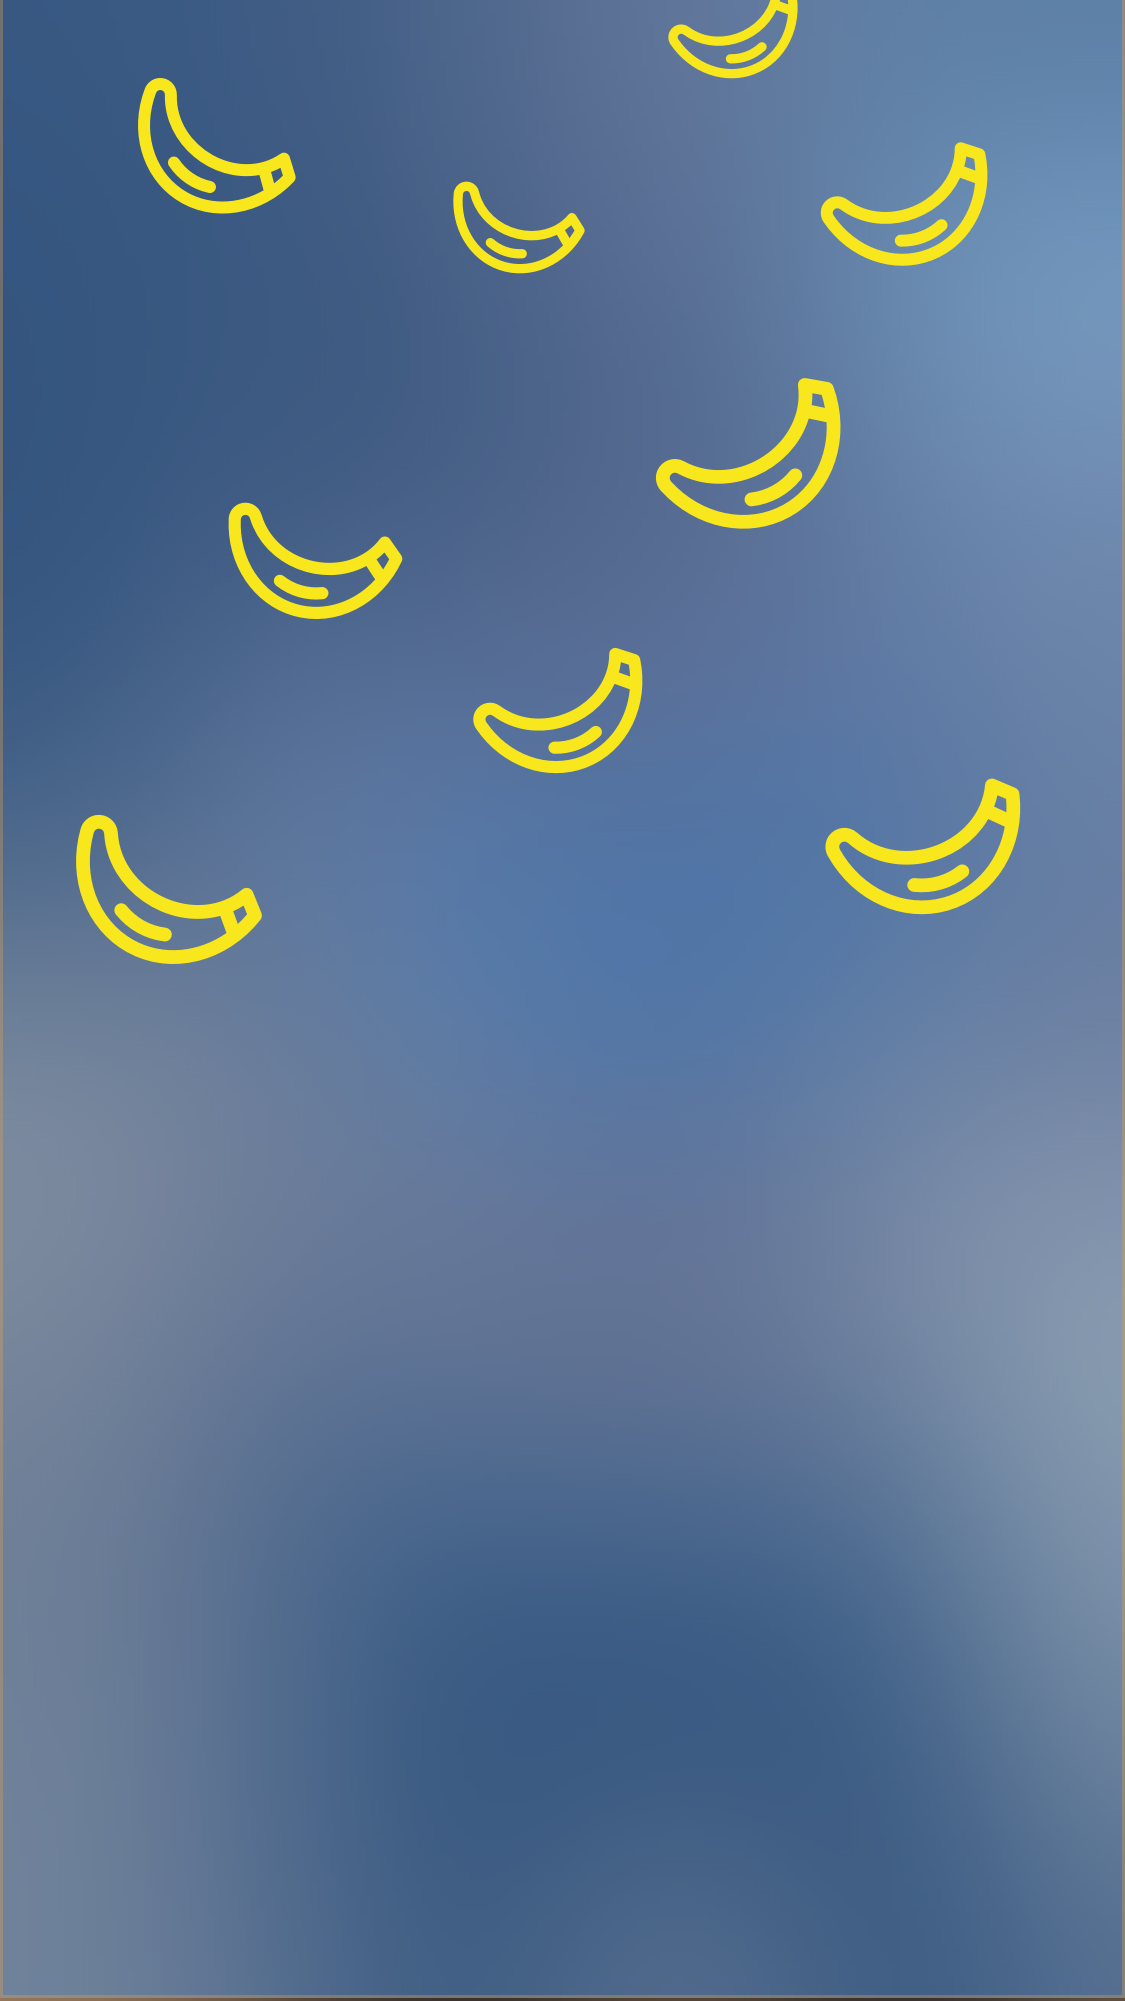
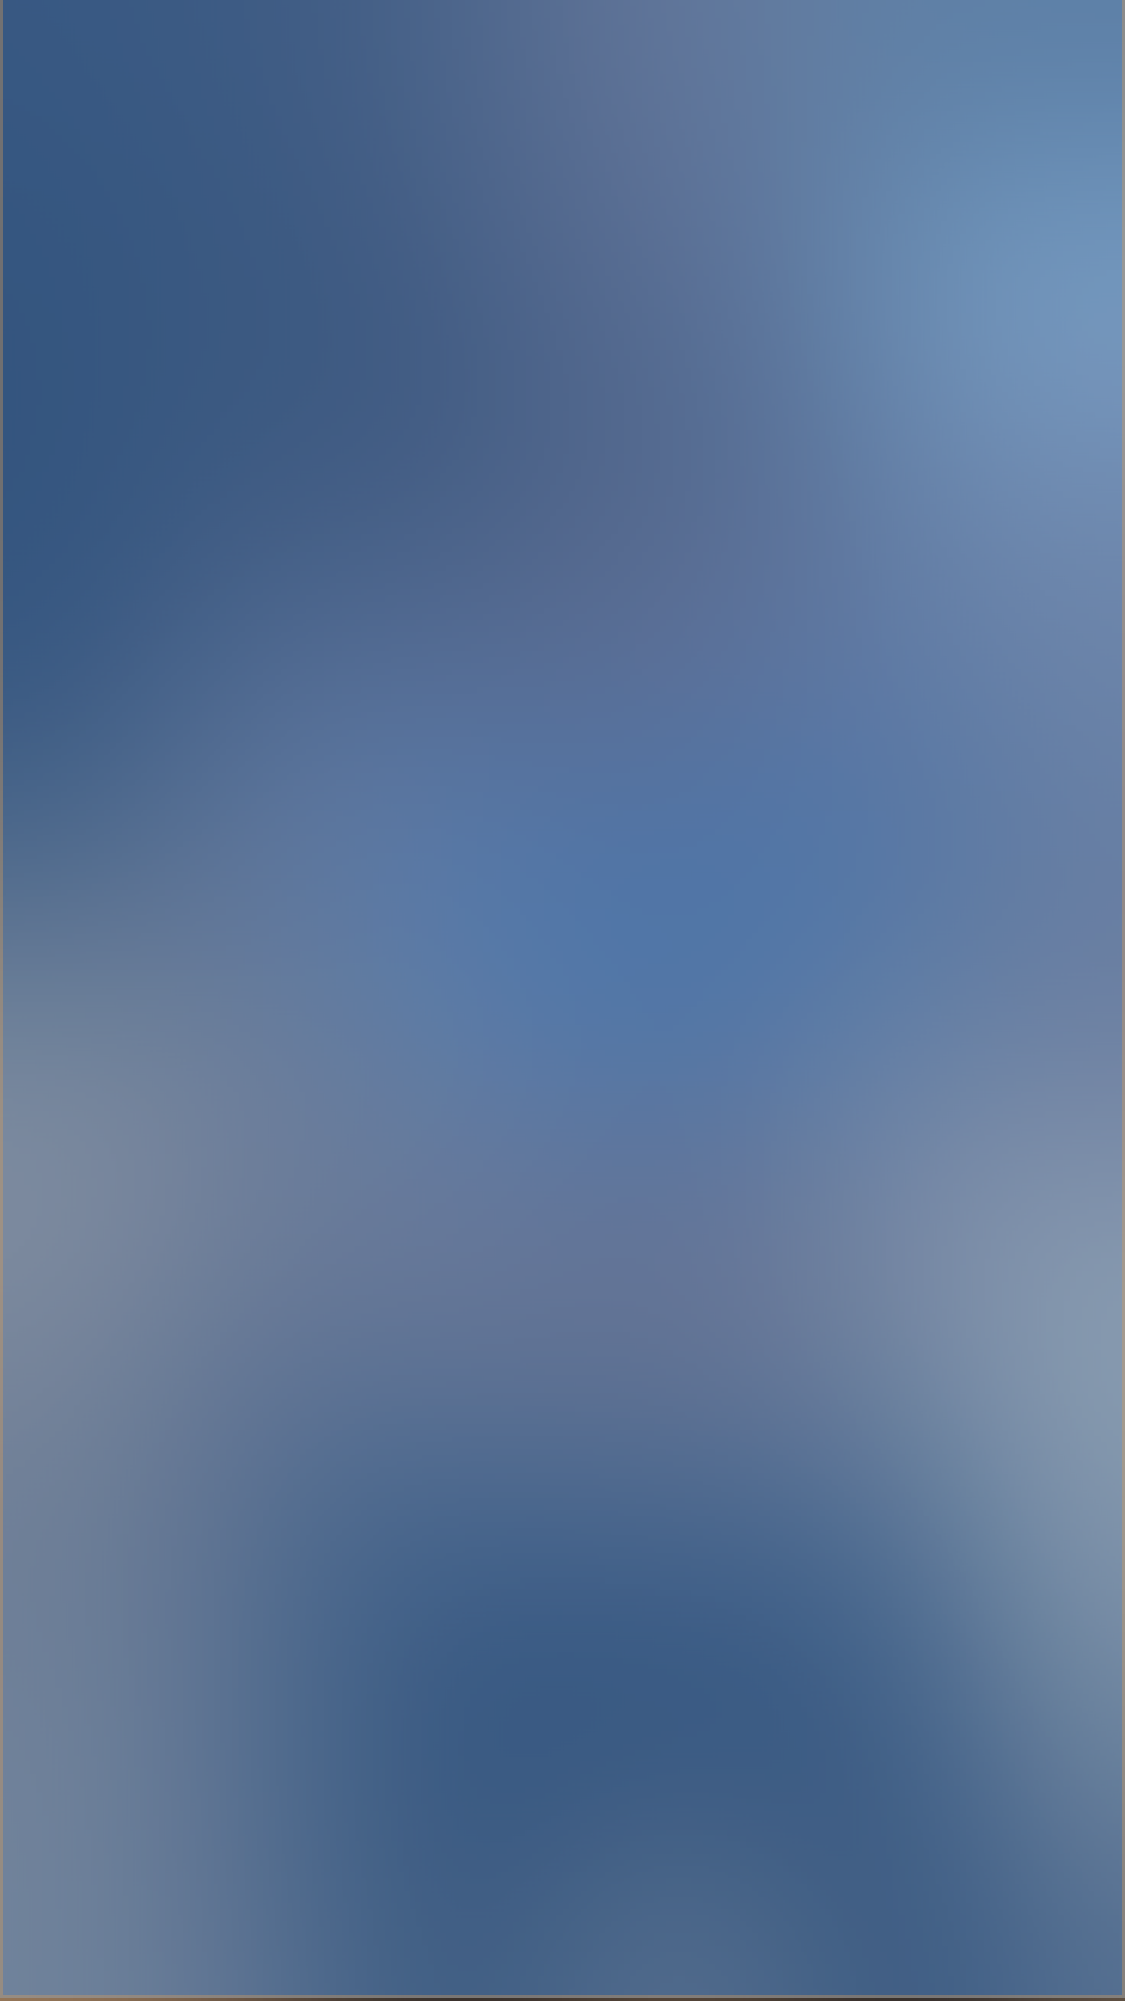
win animation screen and make the app stay portrait all the time

diff --git a/src/components/common/winBackground.js b/src/components/common/winBackground.js
@@ -1,7 +1,22 @@
 import React, { Component } from 'react';
-import { Image, Animated, View } from 'react-native';
-import { winScreen } from '../../images/images';
+
+import {
+    AppRegistry,
+    StyleSheet,
+    View,
+    TouchableWithoutFeedback,
+    Dimensions,
+    Animated,
+    Image,
+} from 'react-native';
+import { winScreen, yellowBanana } from '../../images/images';
 import Text from '../common/text';
+const { width, height } = Dimensions.get('window');
+function getRandomInt(min, max) {
+    min = Math.ceil(min);
+    max = Math.floor(max);
+    return Math.floor(Math.random() * (max - min)) + min;
+}
 
 const StyledText = ({ children }) => (
     <Text
@@ -13,28 +28,40 @@ const StyledText = ({ children }) => (
         {children}
     </Text>
 );
+export default class WinBackground extends Component {
+    constructor(props) {
+        super(props);
 
-class WinBackground extends Component {
-    // state = {
-    //     banans: this._getBanans(),
-    // };
-
-    // _getBanans = () =>
-    //     [1, 2, 3, 4, 5, 6, 7, 8, 9, 10].map((_, index) => ({
-    //         animation: Animated.Value(0),
-    //         start: getRandomInt(100, width - 100),
-    //     }));
-
-    // componentDidMount() {
-    //     const animated = Animated.Value(0);
-    //     this.setState(() => {}))
-    // }
-    getRandomInt(min, max) {
-        min = Math.ceil(min);
-        max = Math.floor(max);
-        return Math.floor(Math.random() * (max - min)) + min;
+        this.state = {
+            bananas: [],
+        };
     }
 
+    componentDidMount() {
+        for (let i = 0; i < this.props.score; i++) {
+            setTimeout(() => {
+                this.handleBananas();
+            }, 250 * i);
+        }
+    }
+
+    handleBananas = () => {
+        const animation = new Animated.Value(0);
+        this.setState(
+            state => ({
+                bananas: [
+                    ...state.bananas,
+                    { animation, start: getRandomInt(100, width - 100) },
+                ],
+            }),
+            () => {
+                Animated.timing(animation, {
+                    toValue: height,
+                    duration: 2000,
+                }).start();
+            },
+        );
+    };
     render() {
         return (
             <Image
@@ -47,15 +74,94 @@ class WinBackground extends Component {
                     justifyContent: 'center',
                 }}
                 source={winScreen}>
-                <View style={{ marginTop: '40%' }}>
-                    <StyledText>Zyada!</StyledText>
-                    <StyledText>
-                        You just won {this.props.score} bananas!!
-                    </StyledText>
+                <View style={StyleSheet.absoluteFill}>
+                    {this.state.bananas.map(({ animation, start }, index) => {
+                        const dividedHeight = height / 3;
+
+                        const positionInterpolate = animation.interpolate({
+                            inputRange: [0, height],
+                            outputRange: [0, height],
+                        });
+
+                        const opacityInterpolate = animation.interpolate({
+                            inputRange: [0, 100, height],
+                            outputRange: [0, 1, 0],
+                        });
+
+                        const wobbleInterpolate = animation.interpolate({
+                            inputRange: [
+                                0,
+                                dividedHeight * 1,
+                                dividedHeight * 2,
+                                dividedHeight * 3,
+                                dividedHeight * 4,
+                                dividedHeight * 5,
+                                dividedHeight * 6,
+                            ],
+                            outputRange: [0, 50, -50, 50, -50, 50, -50],
+                            extrapolate: 'clamp',
+                        });
+
+                        const heartStyle = {
+                            left: start,
+                            top: 0,
+                            transform: [
+                                { translateY: positionInterpolate },
+                                { translateX: wobbleInterpolate },
+                            ],
+                            opacity: opacityInterpolate,
+                        };
+
+                        return (
+                            <Animated.Image
+                                key={index}
+                                source={yellowBanana}
+                                style={heartStyle}
+                            />
+                        );
+                    })}
                 </View>
+
+                <StyledText>Zyada!</StyledText>
+                <StyledText>
+                    You just won {this.props.score} bananas!!
+                </StyledText>
             </Image>
         );
     }
 }
 
-export default WinBackground;
+const Heart = ({ style }) => (
+    <Animated.View style={[styles.heart, style]}>
+        <View style={[styles.heartShape, styles.leftHeart]} />
+        <View style={[styles.heartShape, styles.rightHeart]} />
+    </Animated.View>
+);
+
+const styles = StyleSheet.create({
+    container: {
+        flex: 1,
+    },
+    heart: {
+        width: 50,
+        height: 50,
+        position: 'absolute',
+    },
+    heartShape: {
+        width: 30,
+        height: 45,
+        position: 'absolute',
+        top: 0,
+        borderTopLeftRadius: 15,
+        borderTopRightRadius: 15,
+        backgroundColor: '#6427d1',
+    },
+    leftHeart: {
+        transform: [{ rotate: '-45deg' }],
+        left: 5,
+    },
+    rightHeart: {
+        transform: [{ rotate: '45deg' }],
+        right: 5,
+    },
+});

diff --git a/src/components/common/errorBackground.js b/src/components/common/errorBackground.js
@@ -1,7 +1,19 @@
 import React, { Component } from 'react';
-import { Image } from 'react-native';
+import { Image, View } from 'react-native';
 import { errorScreen, failBanana } from '../../images/images';
 import Text from './text';
+
+const StyledText = ({ children }) => (
+    <Text
+        style={{
+            marginTop: 25,
+            fontSize: 29,
+            backgroundColor: 'transparent',
+        }}>
+        {children}
+    </Text>
+);
+
 class RedBackground extends Component {
     render() {
         return (
@@ -12,15 +24,19 @@ class RedBackground extends Component {
                     height: undefined,
                     justifyContent: 'center',
                     alignItems: 'center',
-                    alignSelf: 'stretch'
+                    alignSelf: 'stretch',
+                    padding: 40,
                 }}
                 source={errorScreen}
                 resizeMode="contain">
-                <Image source={failBanana}/>
-                <Text style={{ marginTop: 25, backgroundColor: 'transparent', fontSize: 29 }}>
-                    Woops…!
-                    You just lost 🤙
-                </Text>
+                <Image source={failBanana} />
+                <StyledText>Woops…!</StyledText>
+                <StyledText>
+                    You just lost to {this.props.name}
+                </StyledText>
+                <StyledText>
+                    🤙
+                </StyledText>
             </Image>
         );
     }

diff --git a/src/components/approvedImage/errorContainer.js b/src/components/approvedImage/errorContainer.js
@@ -1,0 +1,18 @@
+import React, { Component } from 'react';
+import { TouchableOpacity } from 'react-native';
+import { connect } from 'react-redux';
+import Error from '../common/errorBackground';
+import { goToRoute } from '../router/routerCommon';
+
+class ErrorContainer extends Component {
+    goToMain = () => {
+        goToRoute(this.props.navigation.dispatch, 'Home');
+    };
+    render() {
+        return <Error name={this.props.name} />;
+    }
+}
+
+export default connect(({ unSeenImage }) => ({
+    name: unSeenImage.getIn(['hasSomeoneSeenImage', 'name']),
+}))(ErrorContainer);

diff --git a/src/app.js b/src/app.js
@@ -53,11 +53,9 @@ export default class App extends Component {
          */
 
         if (openResult.notification.isAppInFocus) {
-            if (initialRouteName === IMAGE_PREVIEW) {
-                this.setState({ initialRouteName: IMAGE_PREVIEW });
+            if (Boolean(initialRouteName)) {
+                this.setState({ initialRouteName });
             }
-        } else if (Boolean(initialRouteName)) {
-            this.setState({ initialRouteName });
         }
     };
     render() {

diff --git a/src/components/approvedImage/approvedImageContainer.js b/src/components/approvedImage/approvedImageContainer.js
@@ -1,8 +1,8 @@
 import React, { Component } from 'react';
 import { connect } from 'react-redux';
 import { View, TouchableOpacity } from 'react-native';
-import Fail from '../common/errorBackground';
-import Success from '../win/winContainer';
+import Fail from './errorContainer';
+import Success from './winContainer';
 import { NavigationActions } from 'react-navigation';
 import { goToRoute } from '../router/routerCommon';
 class ApproviedImageContainer extends Component {

diff --git a/storybook/stories/index.js b/storybook/stories/index.js
@@ -17,9 +17,7 @@ const highscore = List(
         { name: 'Truls', highscore: 1337, id: 4 },
     ]),
 );
-storiesOf('Error background', module).add('with text', () => (
-    <ErrorBackground style={{ color: 'black' }}>Hello Button</ErrorBackground>
-));
+
 storiesOf('Win', module).add('Not clicked', () => <Win score={1337} />);
 
 storiesOf('Signup step 2', module).add('Not clicked', () => (

diff --git a/src/components/login/loginContainter.js b/src/components/login/loginContainter.js
@@ -22,10 +22,9 @@ class LoginContainer extends Component {
         email: '',
     };
 
-    componentDidMount() {
+    componentWillMount() {
         OneSignal.addEventListener('ids', this.onIds);
     }
-
     componentWillUnmount() {
         OneSignal.removeEventListener('ids', this.onIds);
     }

diff --git a/src/utils/fetch.js b/src/utils/fetch.js
@@ -1,5 +1,5 @@
 const baseURl = __DEV__
-    ? 'http://192.168.1.126:3000'
+    ? 'http://192.168.1.9:3000'
     : 'https://zyada.app.iterate.no';
 
 let authorization = '';

diff --git a/readme.md b/readme.md
@@ -13,8 +13,7 @@
 A app to motivate people for training. 
 
 ## TODO's
-* Force the app to stay horizontal.
-* Fetch data after user has logged in.
 * Check if there are any ways to optimize react-native-camera
 * use slider in the onboarding instead of numbers
 * Remove react-native-filesystem
+* 
